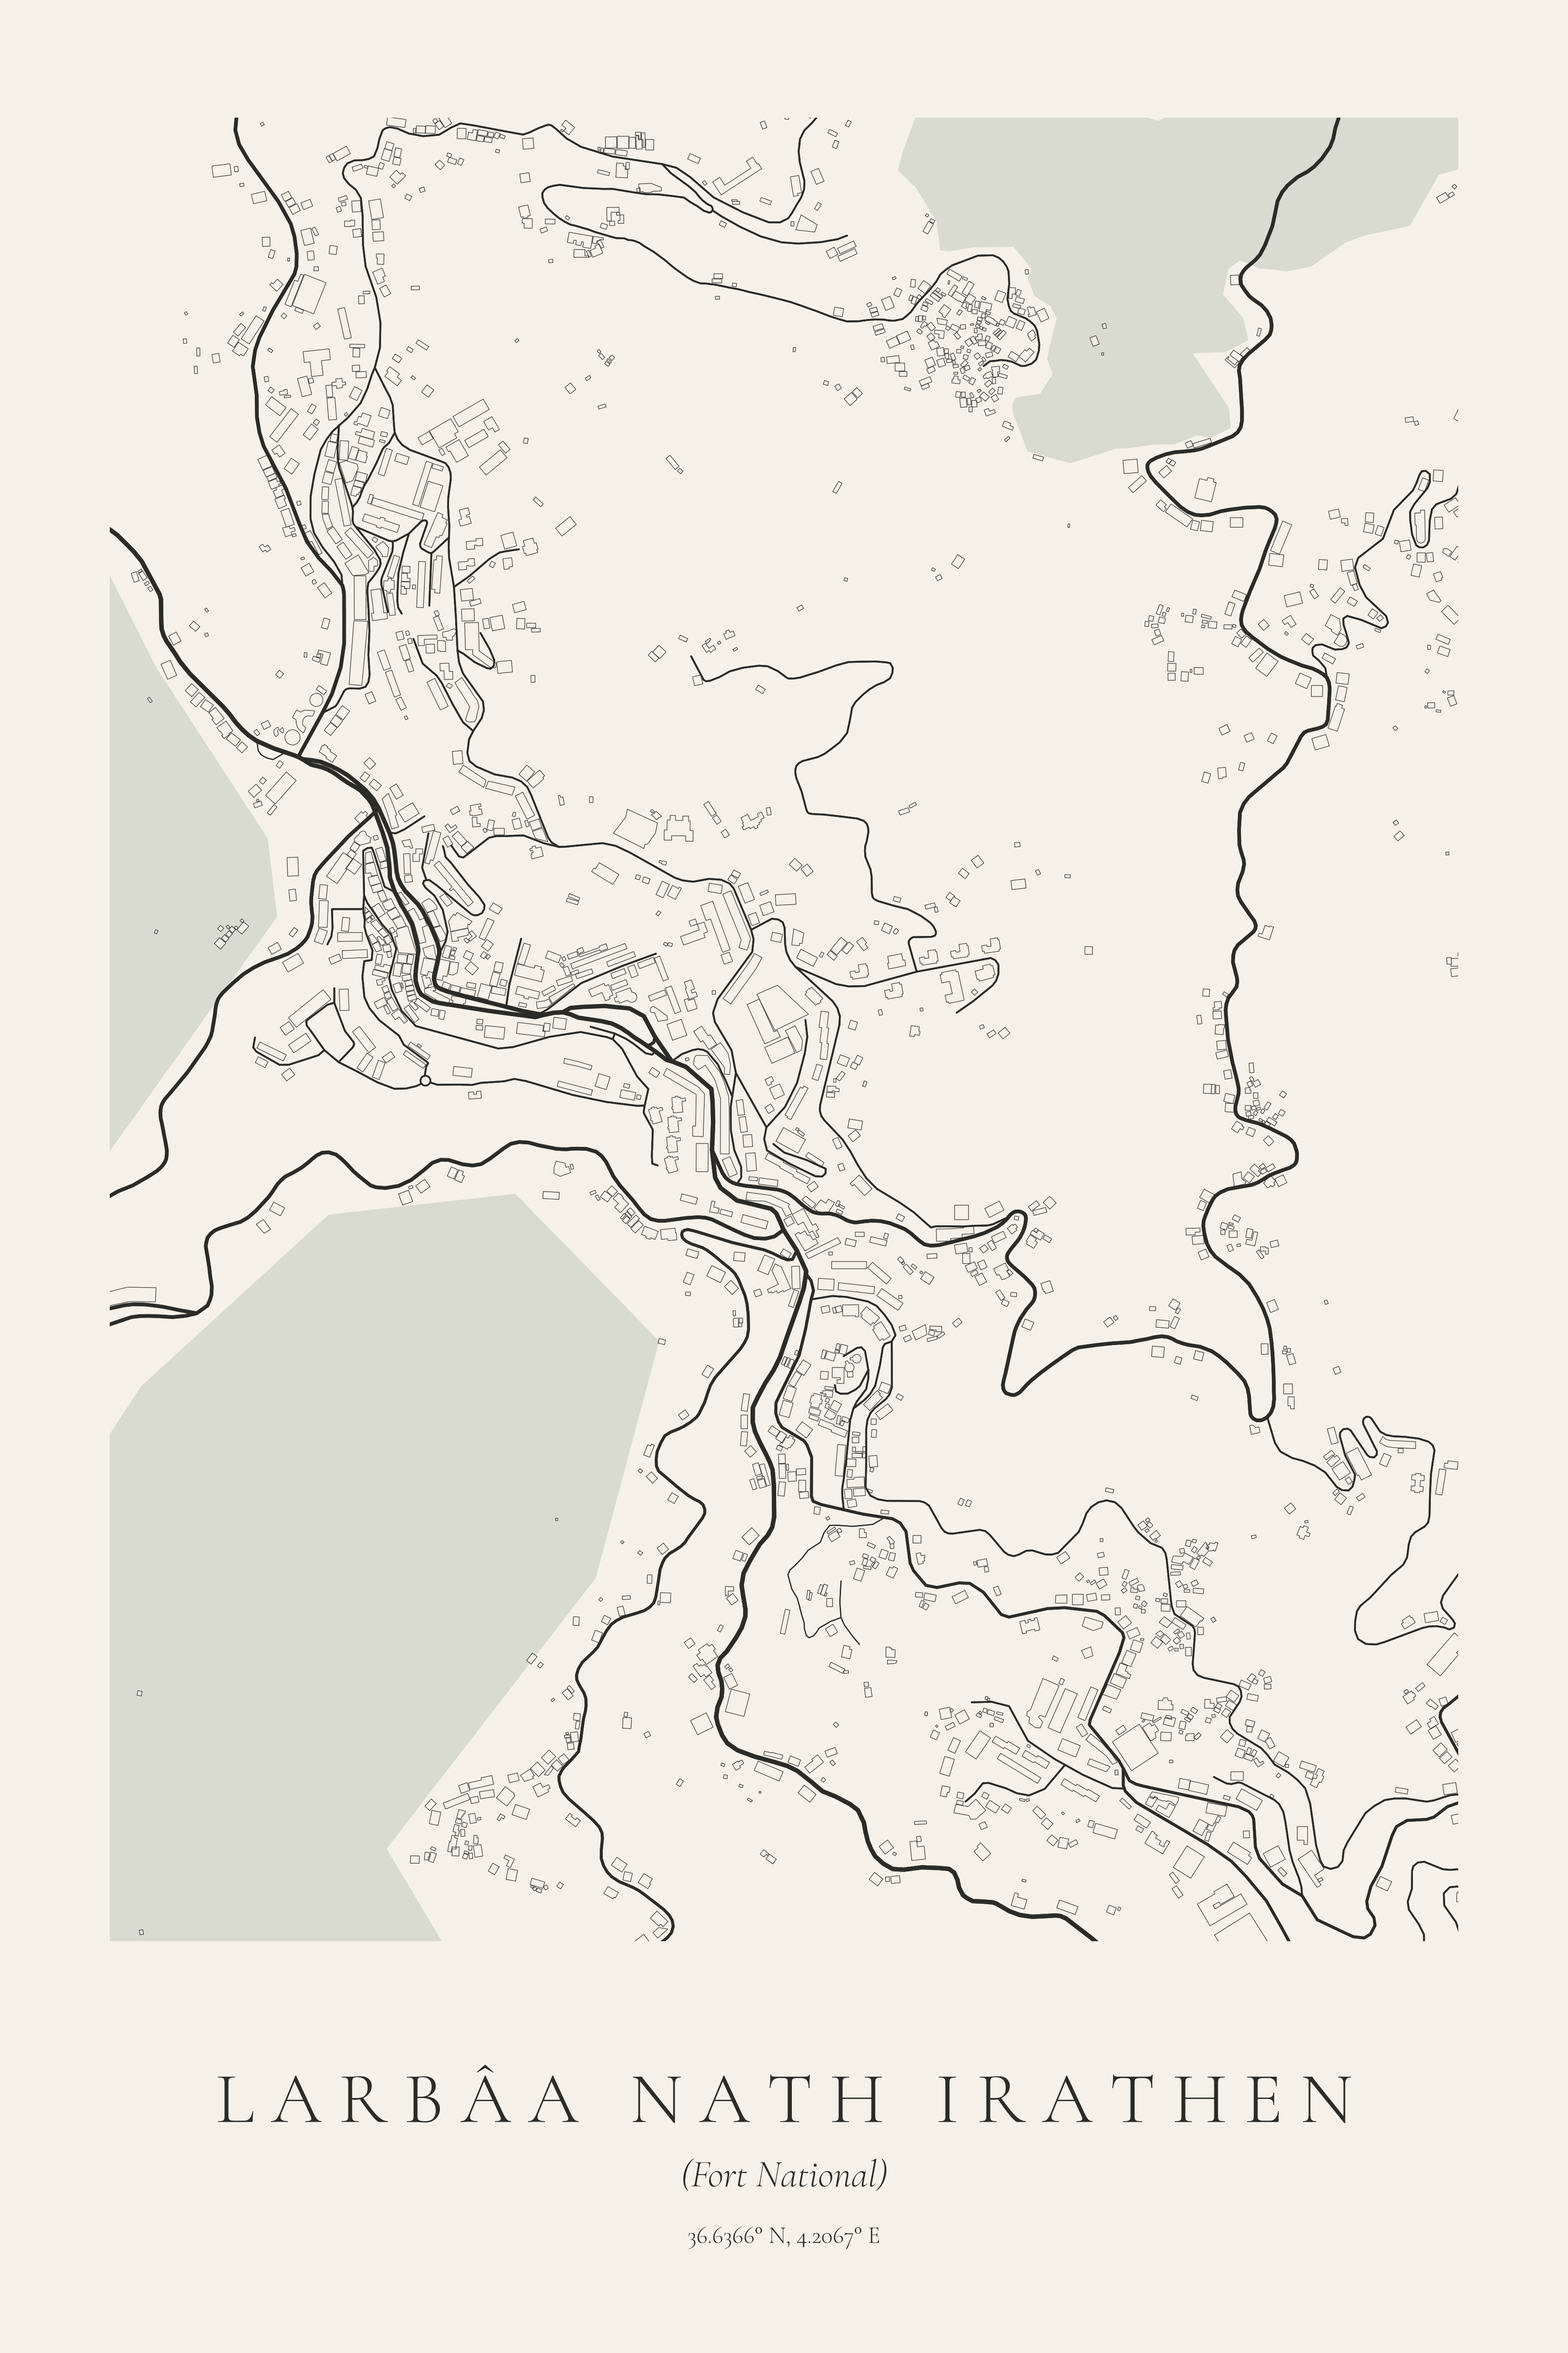
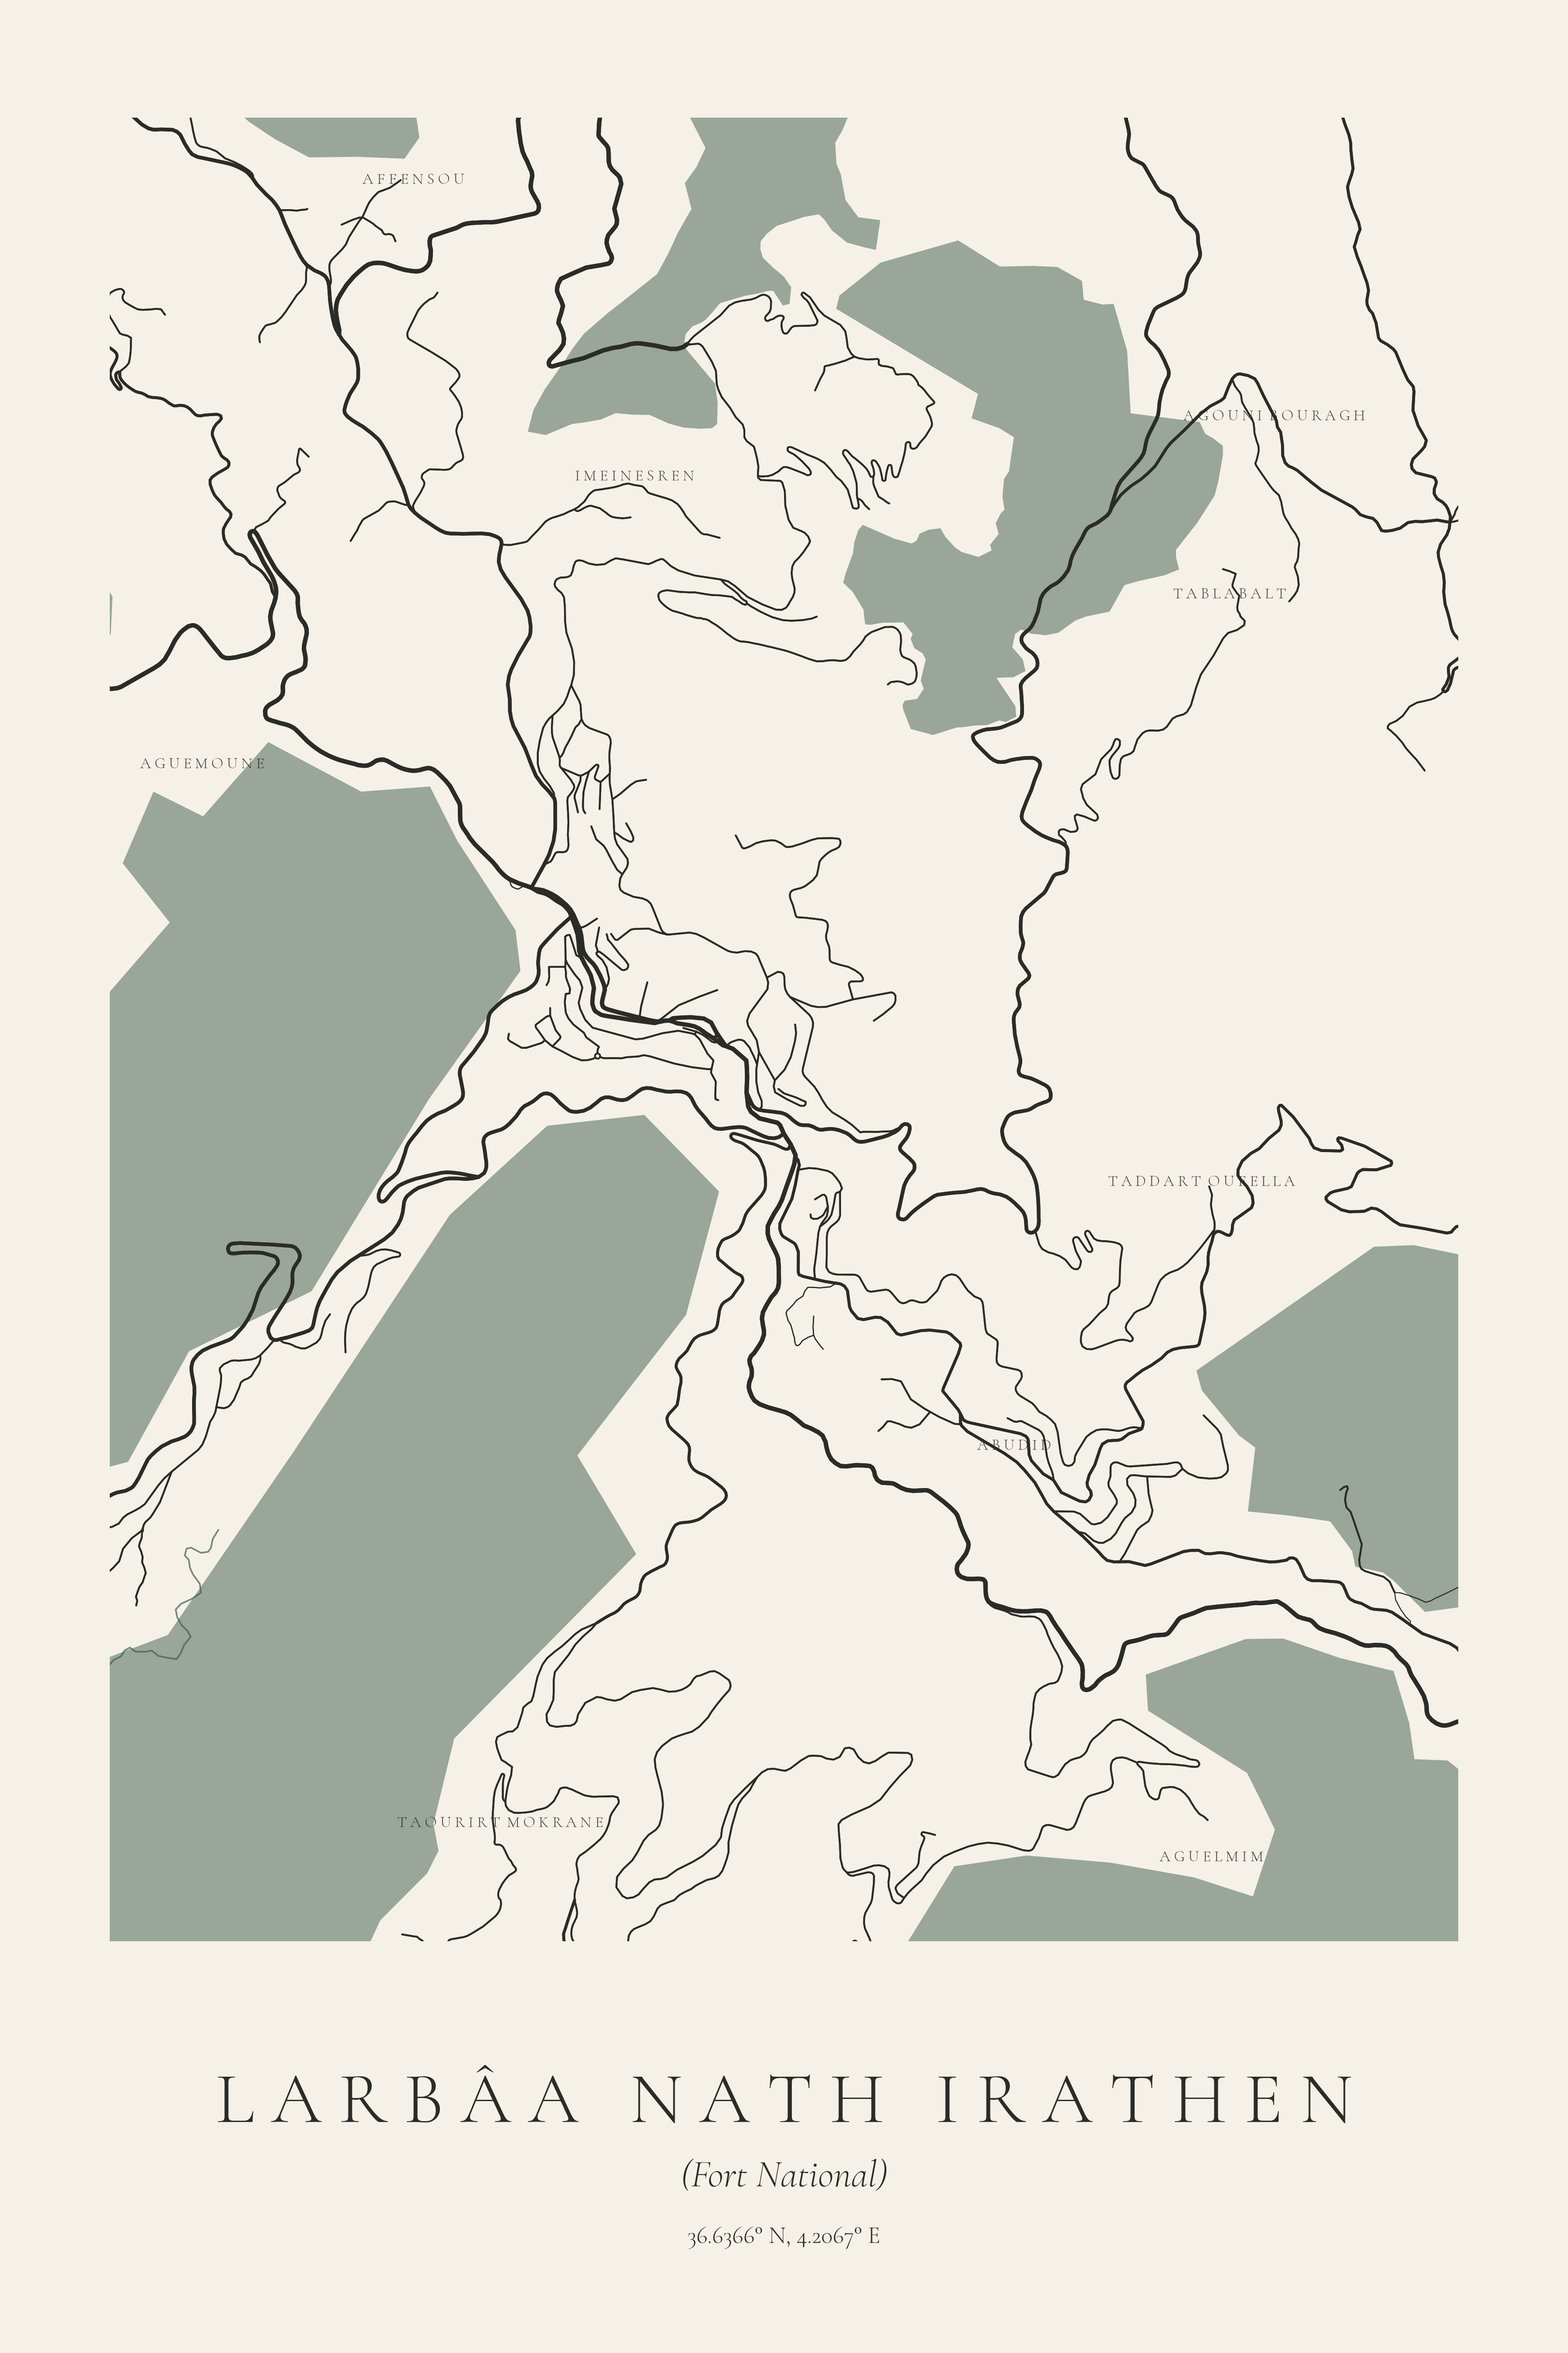
Régénération des 4 posters avec le style affiné
Étiquettes de villages sans doublons ni coupures au bord du cadre,
végétation en vert franc, sans bâtiments — série complète cohérente.

Claude-Session: https://claude.ai/code/session_01VsL4WMiaX4vmCrUVZkkxeR

diff --git a/make_poster.py b/make_poster.py
@@ -211,11 +211,16 @@ def draw_map(ax, point, radius, edges, green, water, buildings, crs):
     ax.set_axis_off()
 
 
-def draw_place_labels(ax, places, serif, min_dist=350):
-    """Noms des villages en petites capitales espacées, sans chevauchement."""
+def draw_place_labels(ax, places, serif, size=8.5, min_dist=350):
+    """Noms des villages en petites capitales espacées — sans chevauchement,
+    sans doublon, et jamais coupés par le bord du cadre."""
     if places is None:
         return
-    kept = []
+    xmin, xmax = ax.get_xlim()
+    ymin, ymax = ax.get_ylim()
+    m_per_pt = (xmax - xmin) / (MAP_BOX[2] * FIG_W * 72)  # mètres par point typo
+
+    kept, seen = [], set()
     order = {"village": 0, "hamlet": 1}
     rows = sorted(
         places.iterrows(),
@@ -223,15 +228,22 @@ def draw_place_labels(ax, places, serif, min_dist=350):
     )
     for _, row in rows:
         name = clean_place_name(row)
-        if not name:
+        if not name or name.lower() in seen:
             continue
+        text = letterspace(name.upper(), " ", "  ")
+        half_w_text = 0.5 * len(text) * 0.55 * size * m_per_pt
+        half_h_text = 0.7 * size * m_per_pt
         pt = row.geometry.representative_point()
+        if not (xmin + half_w_text + 50 < pt.x < xmax - half_w_text - 50
+                and ymin + half_h_text + 50 < pt.y < ymax - half_h_text - 50):
+            continue
         if any(pt.distance(other) < min_dist for other in kept):
             continue
+        seen.add(name.lower())
         kept.append(pt)
-        ax.text(pt.x, pt.y, letterspace(name.upper(), " ", "  "),
+        ax.text(pt.x, pt.y, text,
                 ha="center", va="center", color=CHARCOAL, alpha=0.85,
-                family=serif, size=8.5, zorder=6, clip_on=True)
+                family=serif, size=size, zorder=6, clip_on=True)
 
 
 def add_typography(fig, city, serif):
